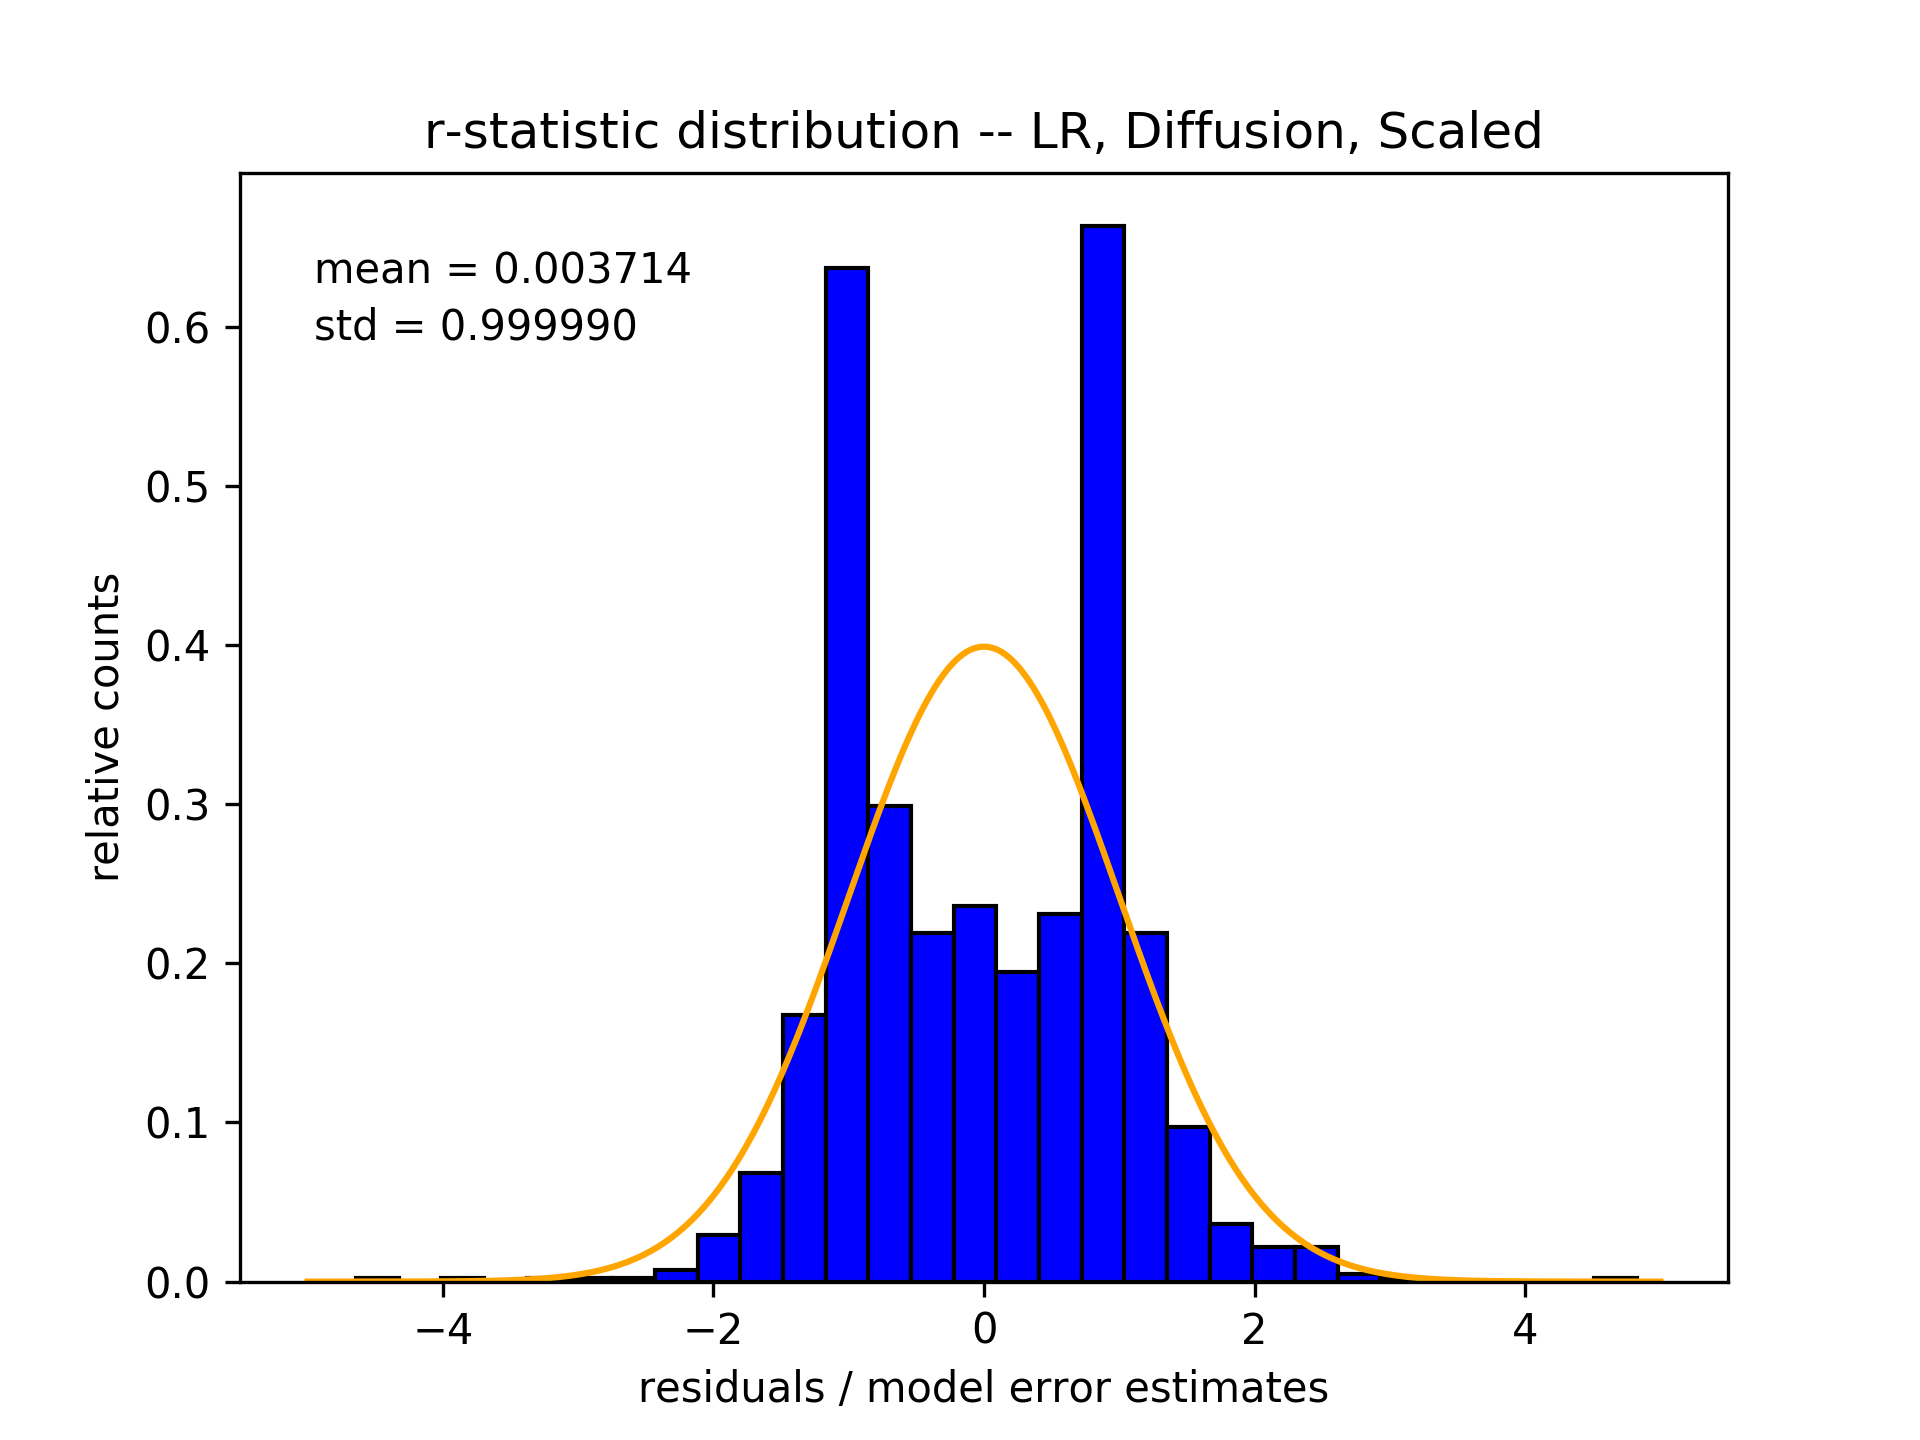
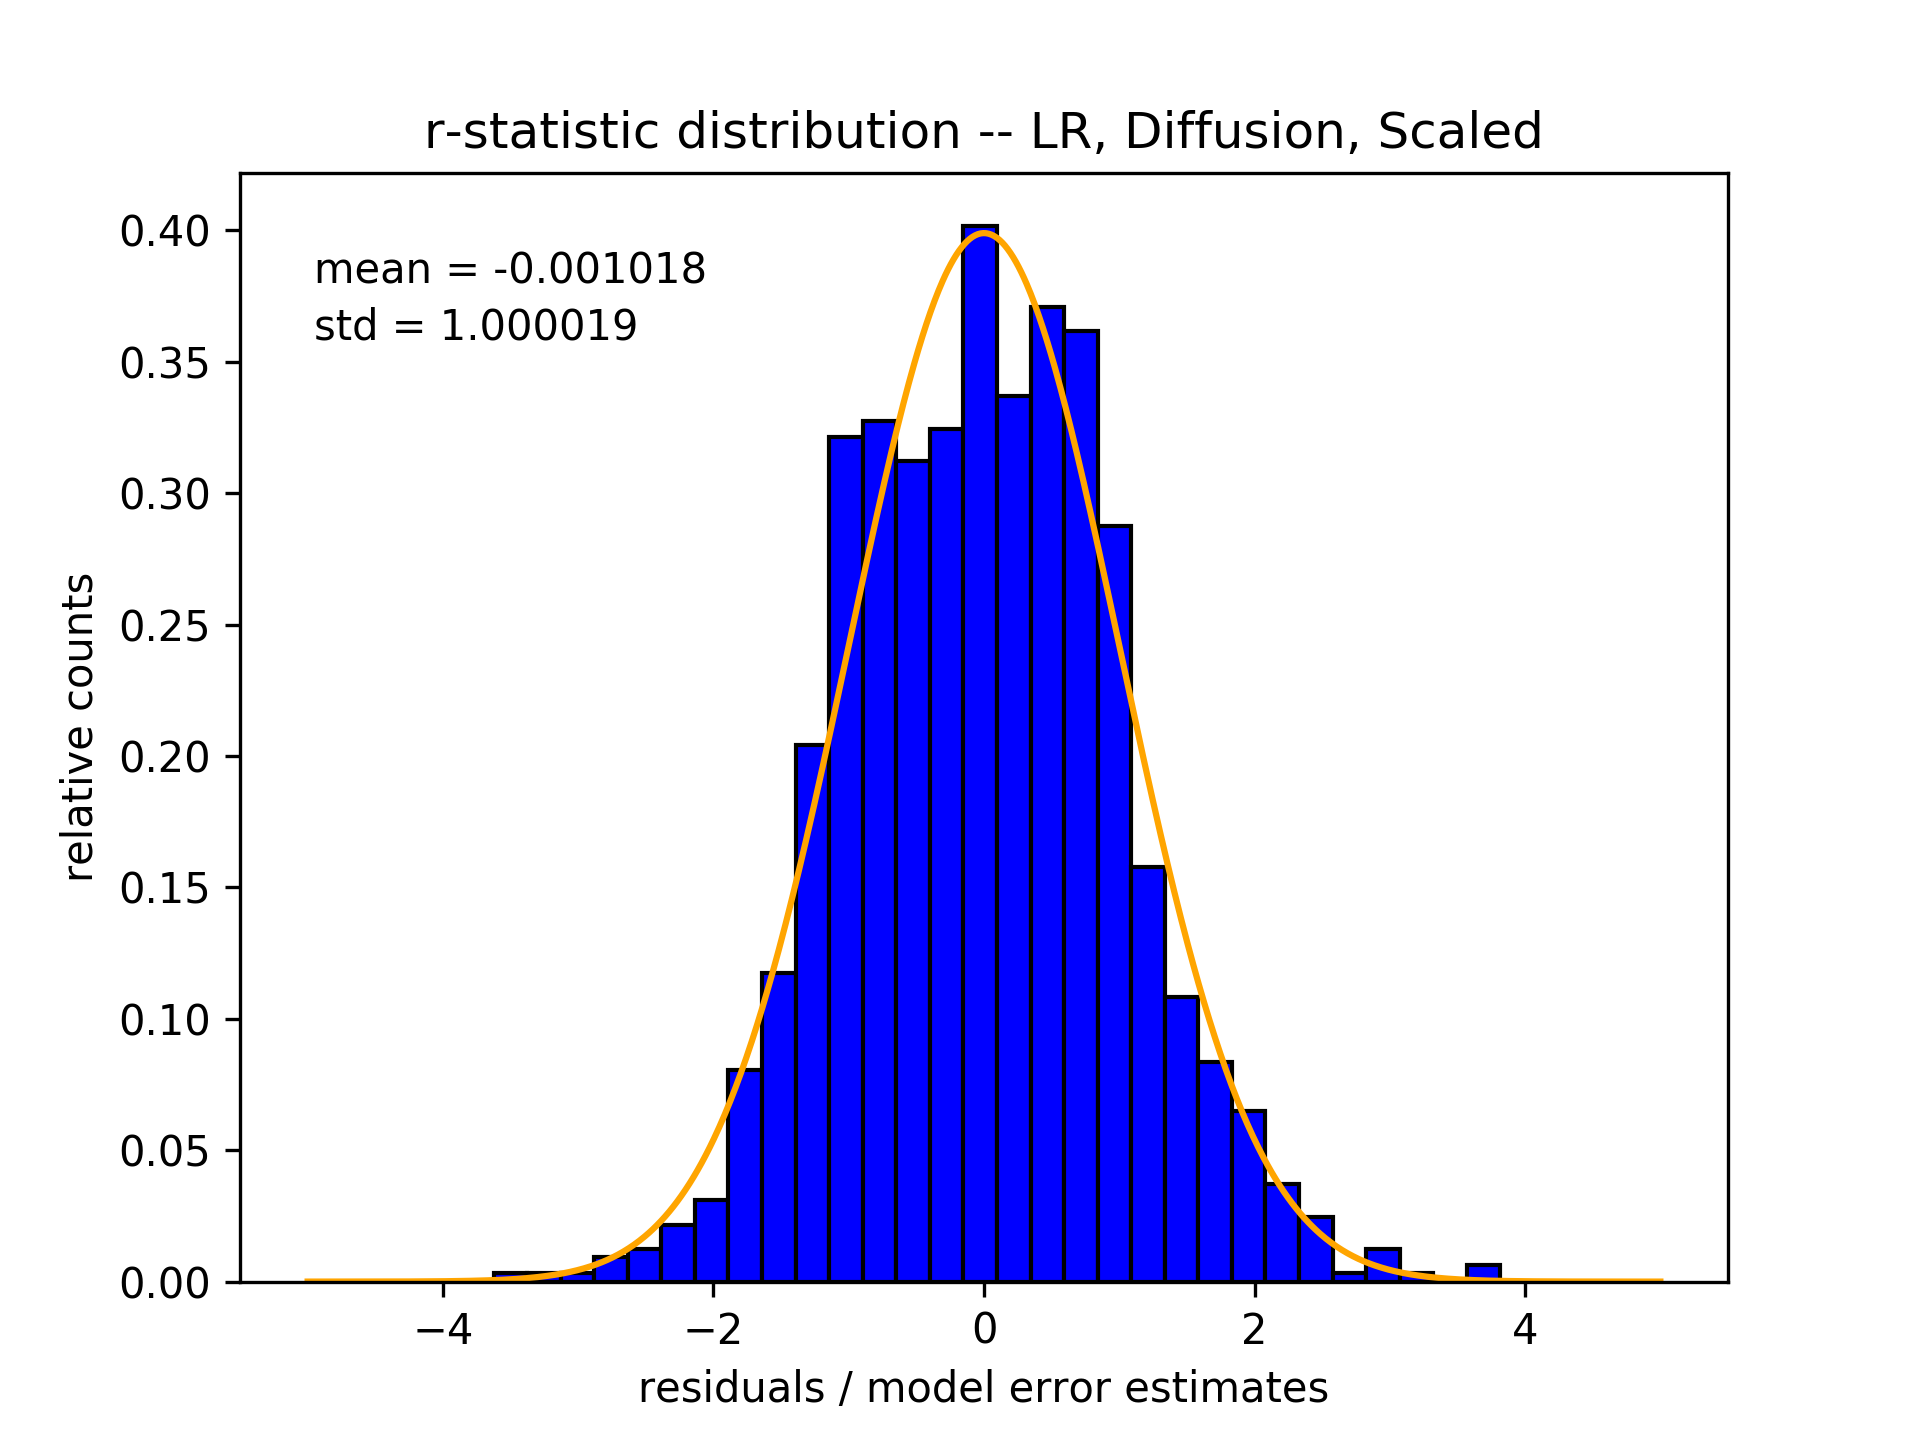
updated ridge regression plots

diff --git a/package/MakePlot.py b/package/MakePlot.py
@@ -17,6 +17,15 @@ class MakePlot:
         # Define input data -- divide by standard deviation
         abs_res = abs(residuals)
 
+        # check to see if number of bins should increase, and increase it if so
+        model_errors_sorted = np.sort(model_errors)
+        ninety_percentile = int(len(model_errors_sorted) * 0.9)
+        ninety_percentile_range = model_errors_sorted[ninety_percentile] - np.amin(model_errors)
+        total_range = np.amax(model_errors) - np.amin(model_errors)
+        number_of_bins = number_of_bins
+        if ninety_percentile_range / total_range < 5 / number_of_bins:
+            number_of_bins = int(5 * total_range / ninety_percentile_range)
+
         # Set bins for calculating RMS
         upperbound = np.amax(model_errors)
         lowerbound = np.amin(model_errors)
@@ -85,6 +94,15 @@ class MakePlot:
         return model_errors, abs_res, r_squared, slope, intercept, binned_model_errors, RMS_abs_res, xfit, yfit
 
     def make_rve_bin_counts(self, model_errors, title, save=False, file_name=None, number_of_bins=15):
+        # check to see if number of bins should increase, and increase it if so
+        model_errors_sorted = np.sort(model_errors)
+        ninety_percentile = int(len(model_errors_sorted) * 0.9)
+        ninety_percentile_range = model_errors_sorted[ninety_percentile] - np.amin(model_errors)
+        total_range = np.amax(model_errors) - np.amin(model_errors)
+        number_of_bins = number_of_bins
+        if ninety_percentile_range / total_range < 5 / number_of_bins:
+            number_of_bins = int(5 * total_range / ninety_percentile_range)
+
         # Create bin counts plot
         fig = plt.figure()
         ax = fig.add_subplot(111)

diff --git a/generate_realdata_plots.py b/generate_realdata_plots.py
@@ -6,7 +6,7 @@ from package import TestData as td
 from sklearn.model_selection import train_test_split
 
 # Data set used
-dataset = "Perovskite"
+dataset = "Diffusion"
 
 # Model used
 model = "LR"
@@ -16,8 +16,10 @@ path = 'Supplemental_Info/{}/5-Fold/{}'.format(dataset, model)
 #path = 'plots/'
 
 # Load data
-X_train = np.load('perovskite_data/all_x_values.npy')
-y_train = np.load('perovskite_data/all_y_values.npy')
+# X_train = np.load('perovskite_data/all_x_values.npy')
+# y_train = np.load('perovskite_data/all_y_values.npy')
+X_train = np.load('diffusion_data/all_x_values.npy')
+y_train = np.load('diffusion_data/all_y_values.npy')
 
 # Cut down to just 80% of the data to make CV graphs for a single split
 X_train_split, X_test_split, y_train_split, y_test_split = train_test_split(X_train, y_train, test_size=0.2, random_state=91936274)

diff --git a/package/LinReg.py b/package/LinReg.py
@@ -2,7 +2,7 @@ import statistics
 
 import numpy as np
 from sklearn.ensemble import BaggingRegressor
-from sklearn.linear_model import LinearRegression
+from sklearn.linear_model import Ridge
 from sklearn.preprocessing import StandardScaler
 
 
@@ -20,7 +20,7 @@ class LinReg:
         self.sc = StandardScaler()
         self.X_train = self.sc.fit_transform(X_train)
         self.y_train = y_train
-        base_model = LinearRegression(fit_intercept=True)
+        base_model = Ridge(fit_intercept=True)
         self.lr = BaggingRegressor(base_estimator=base_model, n_estimators=model_num).fit(self.X_train,
                                                                                                 self.y_train)
 
